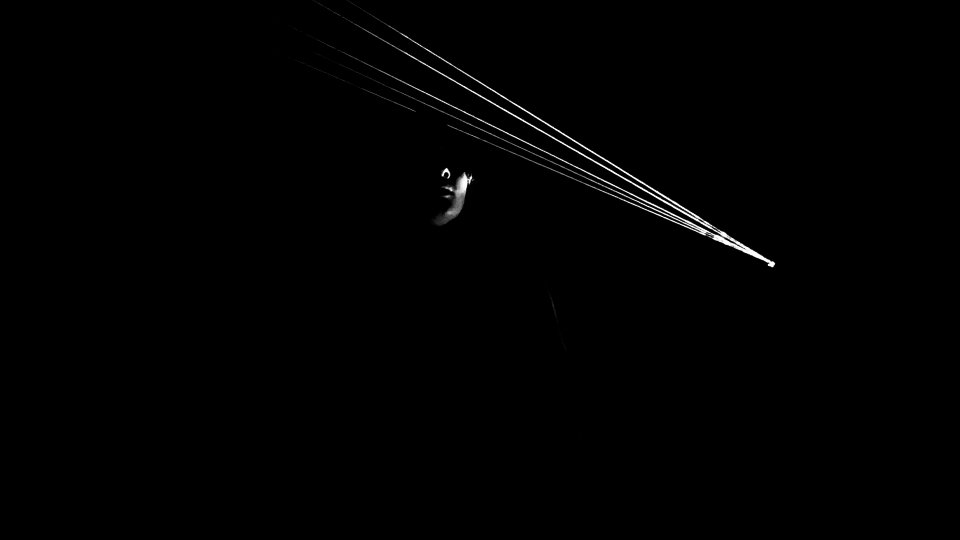
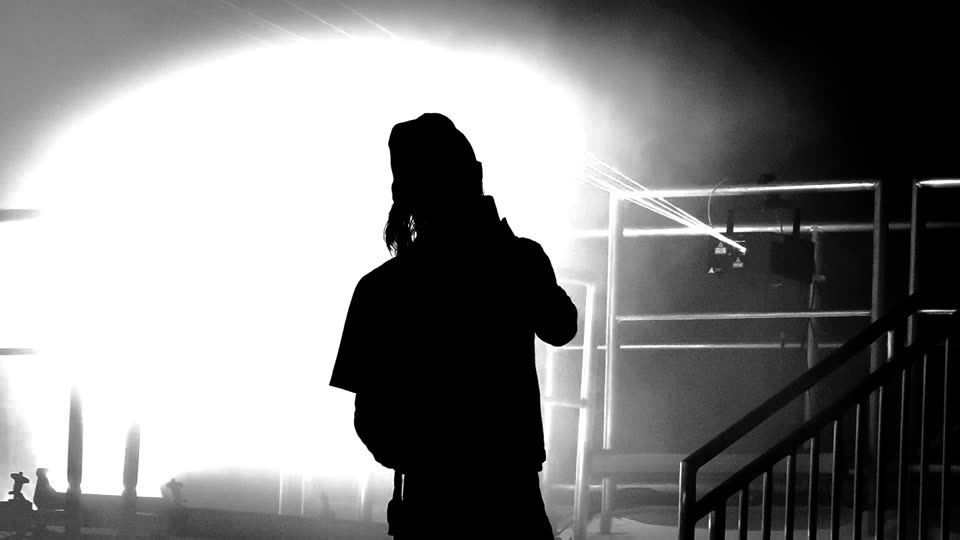
Brighter stills for three NETTSPEND clips; load /studio code on demand
earlylifecrisis and two Feb 2026 reels open on near-black frames, so their
grid stills were black. Each now has a thumbnailTime on a representative
shot (earlylifecrisis strobes, so 3.05s is the peak of the lit silhouette);
the stills were regenerated by the build.

The /studio upload tool is lazy-loaded, taking its code out of the bundle
every visitor downloads (132 KB -> 116 KB brotli).

diff --git a/src/App.tsx b/src/App.tsx
@@ -1,3 +1,4 @@
+import { lazy, Suspense } from 'react';
 import { Routes, Route, Navigate } from 'react-router-dom';
 import { Layout } from '@/components/layout/Layout';
 import { ScrollToTop } from '@/components/layout/ScrollToTop';
@@ -11,15 +12,25 @@ import { ContactPage } from '@/pages/ContactPage';
 import { ThankYouPage } from '@/pages/ThankYouPage';
 import { PrivacyPage } from '@/pages/PrivacyPage';
 import { NotFoundPage } from '@/pages/NotFoundPage';
-import { StudioPage } from '@/pages/StudioPage';
 import { ErrorBoundary } from '@/components/error/ErrorBoundary';
+
+// Imanol's upload tool: loaded only when /studio is opened, so its code (drop UI, passkey
+// sign-in, uploads) isn't part of every visitor's download.
+const StudioPage = lazy(() => import('@/pages/StudioPage').then((m) => ({ default: m.StudioPage })));
 
 function App() {
   return (
     <ErrorBoundary>
       <ScrollToTop />
       <Routes>
-        <Route path="studio" element={<StudioPage />} />
+        <Route
+          path="studio"
+          element={
+            <Suspense fallback={<div className="min-h-[100svh] bg-black" />}>
+              <StudioPage />
+            </Suspense>
+          }
+        />
         <Route path="art" element={<Navigate to="/studio" replace />} />
         <Route path="/" element={<Layout />}>
           <Route index element={<HomePage />} />

diff --git a/src/constants/videos.ts b/src/constants/videos.ts
@@ -250,6 +250,7 @@ const videosChronological: Video[] = [
     category: 'music-video',
     videoUrl: getVideoUrl('earlylifecrisis.mp4'),
     thumbnail: getVideoUrl('earlylifecrisis.mp4'),
+    thumbnailTime: 3.05, // Opens near-black and strobes; this is the peak of the backlit silhouette shot
     featured: true,
   },
   {
@@ -291,6 +292,7 @@ const videosChronological: Video[] = [
     category: 'music-video',
     videoUrl: getVideoUrl('reel1776802607072991.mp4'),
     thumbnail: getVideoUrl('reel1776802607072991.mp4'),
+    thumbnailTime: 4, // Opens near-black; use the "early life crisis?" card
   },
   {
     id: 'shoot-reel-1776901621418237',
@@ -305,6 +307,7 @@ const videosChronological: Video[] = [
     category: 'music-video',
     videoUrl: getVideoUrl('reel1776901621418237.mp4'),
     thumbnail: getVideoUrl('reel1776901621418237.mp4'),
+    thumbnailTime: 10, // Opens near-black; use the lit stage with the logo
     featured: true,
   },
   {
